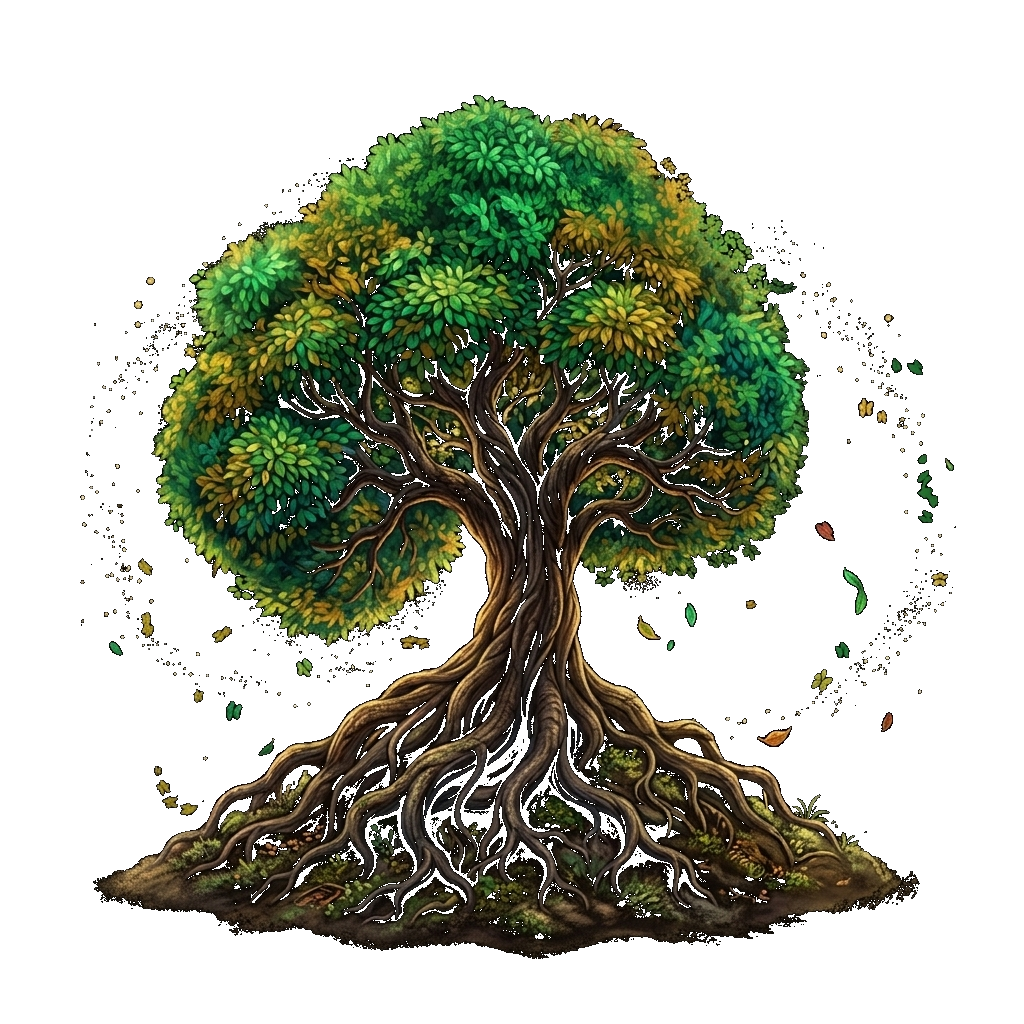
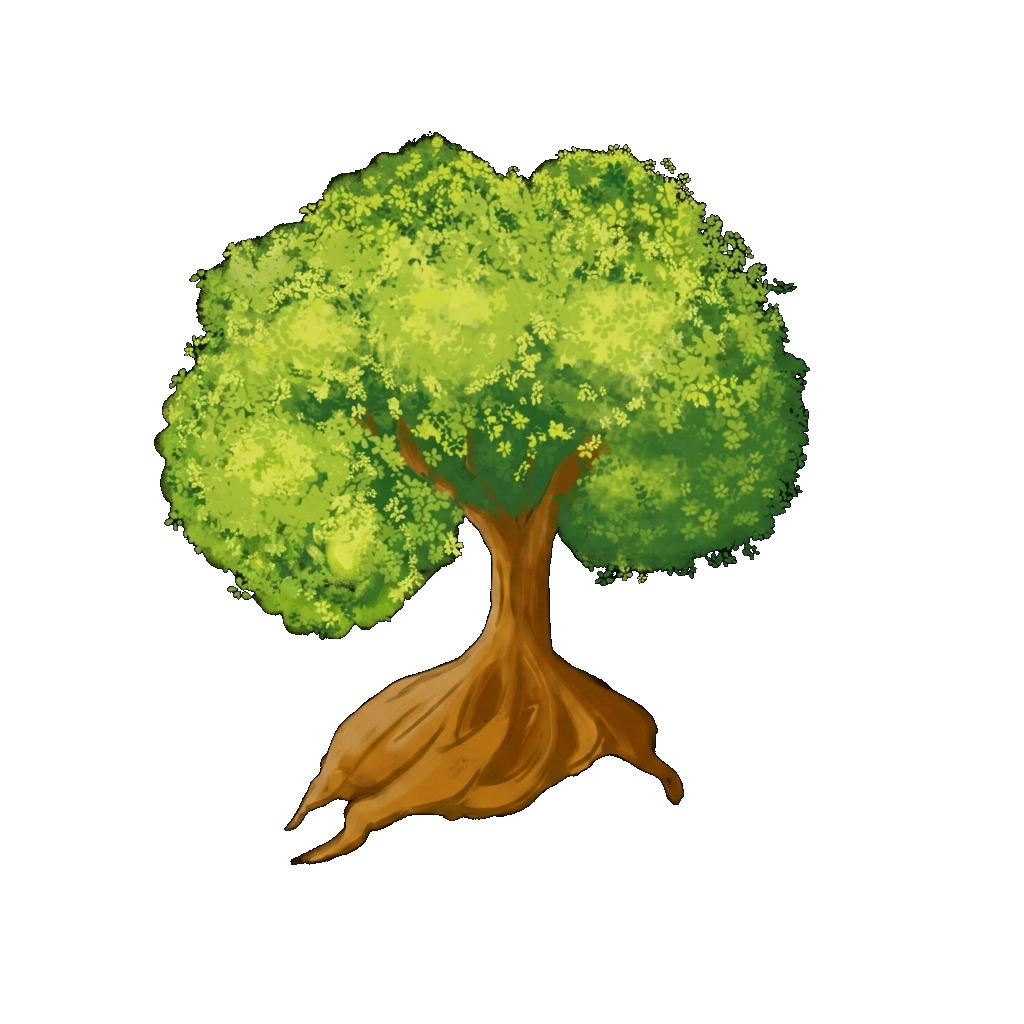
docs: finalize reverted large tree walkthrough

diff --git a/style.css b/style.css
@@ -482,8 +482,8 @@ h4 {
 .aesthetic-tree-container {
   position: relative;
   width: 100%;
-  max-width: 750px;
-  height: 720px;
+  max-width: 900px;
+  height: 850px;
   display: flex;
   justify-content: center;
   align-items: flex-end;